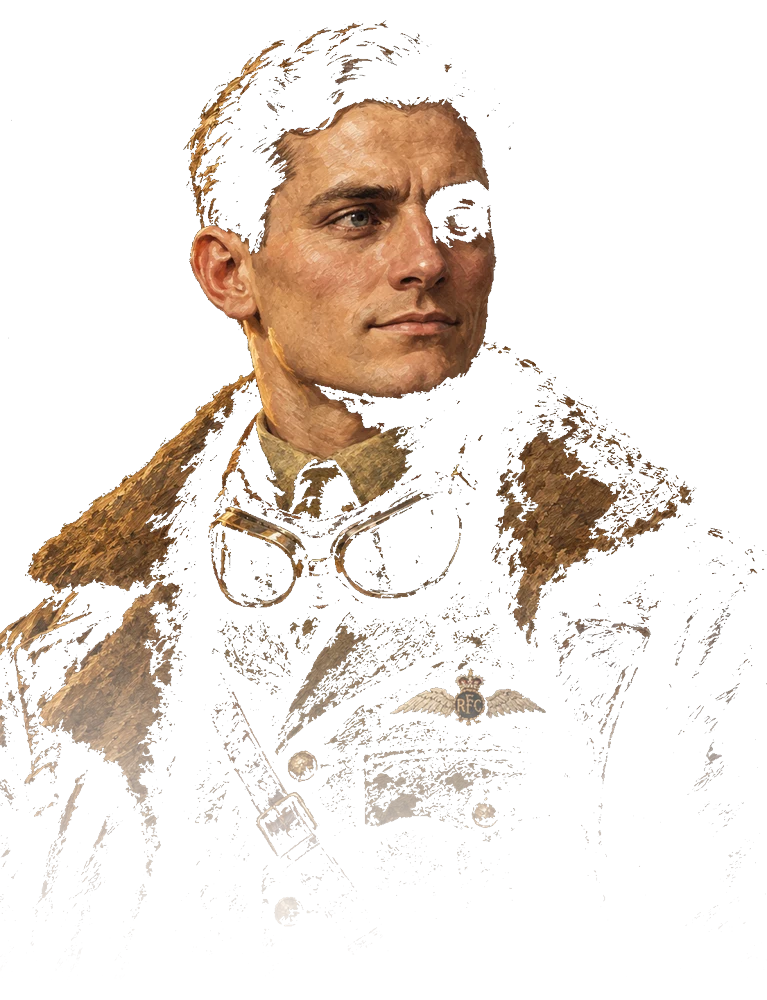
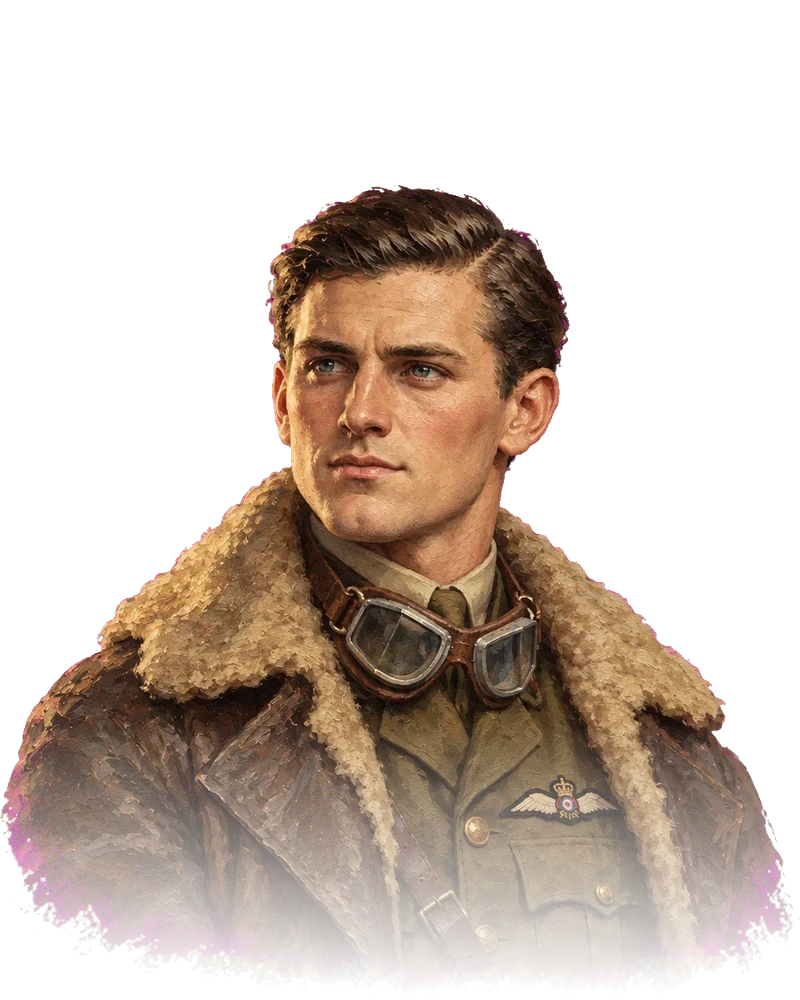
Revert enemy MG tracers to procedural; redraw gontermann/brumowski/barker portraits in unified style

diff --git a/index.html b/index.html
@@ -11,4 +11,4 @@
 <p id="campaignRecord" class="campaign-record" aria-live="polite">캠페인 기록 확인 중…</p><div id="campaignBrief"></div>
 </section><div class="sortie-dossier"><div class="dossier-heading"><span>이번 출격의 에이스</span><a class="roster-jump" href="#flightRoster">파일럿 변경</a></div><h2 id="hangarName">만프레드 폰 리히트호펜</h2><p id="hangarSkill">플라잉 서커스</p></div><label class="nickname-field hidden" for="pilotNickname"><span id="nicknameLabel">랭킹 닉네임</span> <small>선택</small><input id="pilotNickname" type="text" maxlength="12" autocomplete="off" placeholder="익명 파일럿" aria-describedby="nicknameHint"><small id="nicknameHint">비워 두어도 바로 출격할 수 있습니다.</small></label><section id="coopPanel" class="coop-panel hidden" aria-label="2인 팀 설정"><p id="coopP1Summary"></p><label class="hidden" for="coopNickname2">P2 닉네임<input id="coopNickname2" maxlength="12" autocomplete="off" placeholder="P2"></label><label for="coopPilot2">P2 파일럿 · 같은 파일럿도 선택 가능<select id="coopAircraft103" aria-label="P2 출격 기체"></select><select id="coopPilot2"></select></label><div class="coop-preview"><img id="coopPortrait2" alt=""><canvas id="coopPlane2" width="144" height="160" aria-label="P2 기체"></canvas><p id="coopSkill2"></p></div><p>P1: WASD / Space / E / R<br>P2: 방향키 / 오른쪽 Shift / Enter / ₩·역슬래시<br>Esc 공용 정지 · 자동 전진·사격</p><button id="coopRanking" type="button" class="coop-ranking">2인 협동 랭킹</button></section><button id="start" class="primary">전선으로 출격 <span aria-hidden="true">⟶</span></button><div class="start-hint"><span><kbd>WASD</kbd> 조종</span><span><kbd>SPACE</kbd> 선회기동</span><span><kbd>E</kbd> 액티브</span></div></div><div class="hangar-stamp"><span>선택 기체</span><br><b id="hangarAircraftName">붉은포커삼엽기</b></div></div>
 <div id="modal" class="overlay hidden" role="dialog" aria-modal="true" aria-labelledby="modalTitle"><div class="modal-card"><span class="eyebrow" id="modalTag"></span><h2 id="modalTitle"></h2><p id="modalText"></p><div id="modalActions"></div></div></div><div id="skillCutin" class="skill-cutin hidden" aria-live="polite"><div id="cutinPortrait" class="cutin-portrait"></div><div class="cutin-caption"><small id="cutinName"></small><strong id="cutinSkill"></strong></div></div><div id="bossArrival" class="boss-arrival hidden" aria-live="polite"><div class="boss-portrait-window"><img id="bossPortrait" alt=""></div><div><small>ENEMY ACE · 적 에이스</small><strong id="bossName"></strong><span id="bossArrivalDetail"></span></div></div><div id="toast" class="toast hidden"></div><div class="map-label">FRANCE · 49° 56′ N<br><span>고도 2,400 m</span></div><div id="legendaryInventory" class="legendary-inventory" aria-label="획득한 특수장비"></div><div id="touch" class="touch hidden"><div id="stick" aria-label="터치 조종"><span><canvas id="controlIcon" width="48" height="48" aria-hidden="true"></canvas></span><small id="stickCaption" data-i18n="ui.touchSteer">터치 조종</small></div><div class="touch-actions"><button id="touchEvade" aria-label="선회기동"><canvas id="maneuverButtonIcon" width="48" height="48" aria-hidden="true"></canvas><kbd class="flight-key156">SPACE</kbd><span id="maneuverButtonText">선회기동</span><small id="maneuverButtonState"></small></button><button id="touchSkill" aria-label="파일럿 액티브"><canvas id="skillButtonIcon" width="48" height="48" aria-hidden="true"></canvas><kbd class="flight-key156">E</kbd><span id="skillButtonText">액티브 E</span><small id="skillButtonState"></small></button></div></div></div><div class="field-bottom"><span>선회하고 · 조준하고 · 살아남으세요</span><span>작전 ∞ <b> / </b> 솜 전선</span></div></section>
-<aside id="flightRoster" aria-label="파일럿과 기체 선택"><div class="section-label"><span>파일럿 선택</span><a class="hangar-return" href="#hangar">출격 화면</a></div><div class="factions"><button id="central" class="active"><img class="faction-emblem" src="aircraft-iron-cross.svg" alt="" aria-hidden="true">동맹국</button><button id="entente"><img class="faction-emblem" src="aircraft-roundel.svg" alt="" aria-hidden="true">협상국</button></div><div class="pilot-frame"><div id="portrait" class="portrait"></div><span class="portrait-label">PILOT DOSSIER / <b id="pilotNo">01</b></span><div class="portrait-caption"><span id="pilotAlias">THE RED BARON</span><h2 id="pilotName">만프레드 폰 리히트호펜</h2></div></div><div class="pilot-tabs" id="pilotTabs"></div><div class="skill-info"><div><canvas id="pilotSkillIcon" class="skill-icon" width="48" height="48" aria-hidden="true"></canvas><b id="skillName">붉은 급강하</b><kbd>E 액티브 · SPACE 선회기동</kbd></div><p id="skillDesc"></p><p id="passive103"></p><div class="bar skill-bar"><i id="skillBar"></i></div><small id="skillStatus">액티브 준비 완료</small></div><div class="selected-aircraft"><span class="equipment-label">AIRCRAFT / 배정 기체</span><div id="baronAircraftChoice" class="airframe-choice hidden"><button id="baronTriplane" type="button">붉은 Dr.I</button><button id="baronAlbatros" type="button">붉은 날개 D.III</button><small id="baronAircraftHint"></small></div><canvas id="selectedAircraft" width="180" height="160" aria-label="선택한 기체 도트 이미지"></canvas><p id="pilotAircraft" class="pilot-aircraft"></p><select id="aircraftSelect103" aria-label="출격 기체"></select><div class="airframe-brief"><p id="airframeTip"></p><div id="airframeStats" class="airframe-stats" aria-label="게임 내 기체 성능"></div><p id="airframeGrowth" class="airframe-growth"></p><small class="airframe-note">내구도는 기체 생존력을 합친 게임 HP입니다. 표시는 기본 기체 기준이며 출격 전술에 따라 달라집니다.</small><details><summary>실제 기체의 특징</summary><p id="airframeHistory"></p><small>비행 성향은 역사 자료를 참고했습니다. 속도·선회·감속 수치는 게임용이며, 고도와 실속은 재현하지 않습니다.</small></details></div></div><div class="weapon-spec"><span class="equipment-label">ARMAMENT / 무장</span><strong id="weaponSpec"></strong><small id="weaponDetail"></small></div><div class="loadout hidden" id="loadout"><div class="section-label">전술 개조</div><p id="upgradesText">격추 경험치를 모아 기체를 강화하세요.</p></div><p class="footnote">실존 기체와 에이스에서 영감을 받은 아케이드 게임.<br>전술과 능력은 게임을 위해 각색했습니다.</p></aside></main><footer><span>HEAD-ON PROJECT</span><span>하늘은 넓다. 살아남을 자리는 좁다.</span><span>FLIGHT OPERATIONS · WWI</span></footer><script type="module" src="app.js?v=231"></script><script type="module" src="./battlefield-event-ui.js?v=214"></script><script type="module" src="./main-ui-v2.js?v=220"></script><script type="module" src="./hangar-portrait186.js?v=220"></script></body></html>
+<aside id="flightRoster" aria-label="파일럿과 기체 선택"><div class="section-label"><span>파일럿 선택</span><a class="hangar-return" href="#hangar">출격 화면</a></div><div class="factions"><button id="central" class="active"><img class="faction-emblem" src="aircraft-iron-cross.svg" alt="" aria-hidden="true">동맹국</button><button id="entente"><img class="faction-emblem" src="aircraft-roundel.svg" alt="" aria-hidden="true">협상국</button></div><div class="pilot-frame"><div id="portrait" class="portrait"></div><span class="portrait-label">PILOT DOSSIER / <b id="pilotNo">01</b></span><div class="portrait-caption"><span id="pilotAlias">THE RED BARON</span><h2 id="pilotName">만프레드 폰 리히트호펜</h2></div></div><div class="pilot-tabs" id="pilotTabs"></div><div class="skill-info"><div><canvas id="pilotSkillIcon" class="skill-icon" width="48" height="48" aria-hidden="true"></canvas><b id="skillName">붉은 급강하</b><kbd>E 액티브 · SPACE 선회기동</kbd></div><p id="skillDesc"></p><p id="passive103"></p><div class="bar skill-bar"><i id="skillBar"></i></div><small id="skillStatus">액티브 준비 완료</small></div><div class="selected-aircraft"><span class="equipment-label">AIRCRAFT / 배정 기체</span><div id="baronAircraftChoice" class="airframe-choice hidden"><button id="baronTriplane" type="button">붉은 Dr.I</button><button id="baronAlbatros" type="button">붉은 날개 D.III</button><small id="baronAircraftHint"></small></div><canvas id="selectedAircraft" width="180" height="160" aria-label="선택한 기체 도트 이미지"></canvas><p id="pilotAircraft" class="pilot-aircraft"></p><select id="aircraftSelect103" aria-label="출격 기체"></select><div class="airframe-brief"><p id="airframeTip"></p><div id="airframeStats" class="airframe-stats" aria-label="게임 내 기체 성능"></div><p id="airframeGrowth" class="airframe-growth"></p><small class="airframe-note">내구도는 기체 생존력을 합친 게임 HP입니다. 표시는 기본 기체 기준이며 출격 전술에 따라 달라집니다.</small><details><summary>실제 기체의 특징</summary><p id="airframeHistory"></p><small>비행 성향은 역사 자료를 참고했습니다. 속도·선회·감속 수치는 게임용이며, 고도와 실속은 재현하지 않습니다.</small></details></div></div><div class="weapon-spec"><span class="equipment-label">ARMAMENT / 무장</span><strong id="weaponSpec"></strong><small id="weaponDetail"></small></div><div class="loadout hidden" id="loadout"><div class="section-label">전술 개조</div><p id="upgradesText">격추 경험치를 모아 기체를 강화하세요.</p></div><p class="footnote">실존 기체와 에이스에서 영감을 받은 아케이드 게임.<br>전술과 능력은 게임을 위해 각색했습니다.</p></aside></main><footer><span>HEAD-ON PROJECT</span><span>하늘은 넓다. 살아남을 자리는 좁다.</span><span>FLIGHT OPERATIONS · WWI</span></footer><script type="module" src="app.js?v=232"></script><script type="module" src="./battlefield-event-ui.js?v=214"></script><script type="module" src="./main-ui-v2.js?v=220"></script><script type="module" src="./hangar-portrait186.js?v=220"></script></body></html>

diff --git a/app.js b/app.js
@@ -5,16 +5,16 @@ import {t,getLocale,setLocale,subscribe,initLocale,applyTranslations,rarityName,
 import {GamepadInput} from './gamepad-input.js?v=214';
 const fieldRecordLink=document.createElement('a');fieldRecordLink.href='./field-record.html';fieldRecordLink.target='_blank';fieldRecordLink.rel='noopener';fieldRecordLink.textContent=getLocale()==='en'?'Official Battle Record':'공식 전장 기록';fieldRecordLink.className='field-record-link';fieldRecordLink.style.cssText='display:block;margin:10px auto 0;text-align:center;color:#d7b26d;font-weight:800;text-decoration:none';document.getElementById('start')?.after(fieldRecordLink);
 import {playerPose,drawPlayerAura,drawPetalParticle,drawRedGhosts162} from './player-effects129.js?v=214';
-import {drawStageBoss,updateStageBossHud,paintCity,paintSky,prepareStageBossAssets} from './stageboss-view.js?v=196';
+import {drawStageBoss,updateStageBossHud,paintCity,paintSky,prepareStageBossAssets} from './stageboss-view.js?v=197&b=212';
 import {enableStageBoss} from './stageboss-host.js?v=190';
 import {chooseTransitionTip,transitionRegionLabel} from './transition-tips188.js?v=214';
 import './hud-layout94.js?v=214';
 import {showBattlefieldEvent,hideBattlefieldEvent} from './battlefield-event-ui.js?v=214';
 import {CoopGame,coopPlane} from './coop-engine.js?v=221';
 import {CoopInput,coopRecord,saveCoopLocal,COOP_RECORD_KEYS} from './coop-input.js?v=214';
-import {drawCoop} from './coop-view.js?v=224';
+import {drawCoop} from './coop-view.js?v=225';
 import {drawSunStrike} from './sun-strike71.js?v=221&b=220';
-import {drawEnemyProjectile,drawCannonProjectile,drawBattlefieldFire,friendlyTracerColor} from './projectiles.js?v=216&b=211';
+import {drawEnemyProjectile,drawCannonProjectile,drawBattlefieldFire,friendlyTracerColor} from './projectiles.js?v=217&b=212';
 import {installFlightViewport} from './flight-viewport.js?v=214';
 import {aircraftFeelRatings,representativeArchetypeKey} from './aircraft-feel174.js?v=214';
 import {drawGas} from './gas-view.js?v=215&b=210';

diff --git a/coop-view.js b/coop-view.js
@@ -1,10 +1,10 @@
 import {drawGrenade,drawGrenadeBlast,drawAmatolBlast,drawFxExplosion} from './weapon-effects156.js?v=216';
 import {fx,fxReady,fxTint} from './fx-art.js';
 import {playerPose,drawPlayerAura,drawPetalParticle,drawRedGhosts162} from './player-effects129.js?v=214';
-import {drawStageBoss} from './stageboss-view.js?v=196&b=211';
+import {drawStageBoss} from './stageboss-view.js?v=197&b=212';
 import {planeSprite,aircraftKey} from './aircraft.js?v=220';
 import {drawEquipment} from './equipment.js?v=215&b=211';
-import {drawEnemyProjectile,drawCannonProjectile,drawBattlefieldFire,friendlyTracerColor} from './projectiles.js?v=216&b=211';
+import {drawEnemyProjectile,drawCannonProjectile,drawBattlefieldFire,friendlyTracerColor} from './projectiles.js?v=217&b=212';
 import {drawBattlefieldSprite} from './battlefield-art.js?v=215&b=211';
 import {drawSpecialAmmoIcon} from './icons.js?v=215';
 import {SUN_STRIKE,TAILING_BALANCE,SPECIAL_AMMO,enemyAircraftScale} from './engine.js?v=221';

diff --git a/projectiles.js b/projectiles.js
@@ -31,10 +31,6 @@ export function drawEnemyProjectile(c,b,x,y,t=0,screenScale=1){
  }
  if(kind==='railgun'&&fxReady('shell')){FX56?fx(c,'shell',-8,0,9,27,Math.PI/2):fx(c,'shell',-8,0,30,9);c.restore();return}
  if(kind==='rocket'&&fxReady('rocket')){FX56?fx(c,'rocket',-4,0,10,32,Math.PI/2):fx(c,'rocket',-4,0,34,10);c.restore();return}
- if(fxReady('tracerAmber')){
-  const vKey=kind==='balloon'||kind==='flak'?'tracerCream':(kind==='heavyBomber'||kind==='naval'||kind==='zeppelin')?'tracerOrange':'tracerAmber';
-  fxTint(c,vKey,color,-4,0,length*2.1,width*5);c.restore();return;
- }
  const head=kind==='rocket'?-15:2;
  // Two short, fading rectangular tail segments echo the aircraft pixel grid.
  c.globalAlpha=.2;c.fillStyle=color;c.fillRect(head-length-7,-width/2,7,width);

diff --git a/stageboss-view.js b/stageboss-view.js
@@ -1,7 +1,7 @@
 import {drawRailDamage,drawRailTrack} from './rail-render129.js';
 import {fx,fxReady,fxImage,FX56} from './fx-art.js';
-import {drawEnemyProjectile} from './projectiles.js?v=216';
-import {drawSupportShip,drawSupportEffects} from './stuttgart-render129.js';
+import {drawEnemyProjectile} from './projectiles.js?v=217&b=212';
+import {drawSupportShip,drawSupportEffects} from './stuttgart-render129.js?v=212';
 import {renderStageBossLayer} from './headon-stageboss-render.js?v=190';
 import {bossHudModel} from './headon-stageboss-hud.js?v=190&b=117';
 

diff --git a/stuttgart-render129.js b/stuttgart-render129.js
@@ -1,4 +1,4 @@
-import {drawEnemyProjectile} from './projectiles.js?v=216';
+import {drawEnemyProjectile} from './projectiles.js?v=217&b=212';
 import {HANGAR} from './stuttgart129.js';
 // Geometry masks remove the source canvas outside the drawn silhouette at render time.
 // Never color-key gray pixels: doing so also erases metal highlights inside the ship.
